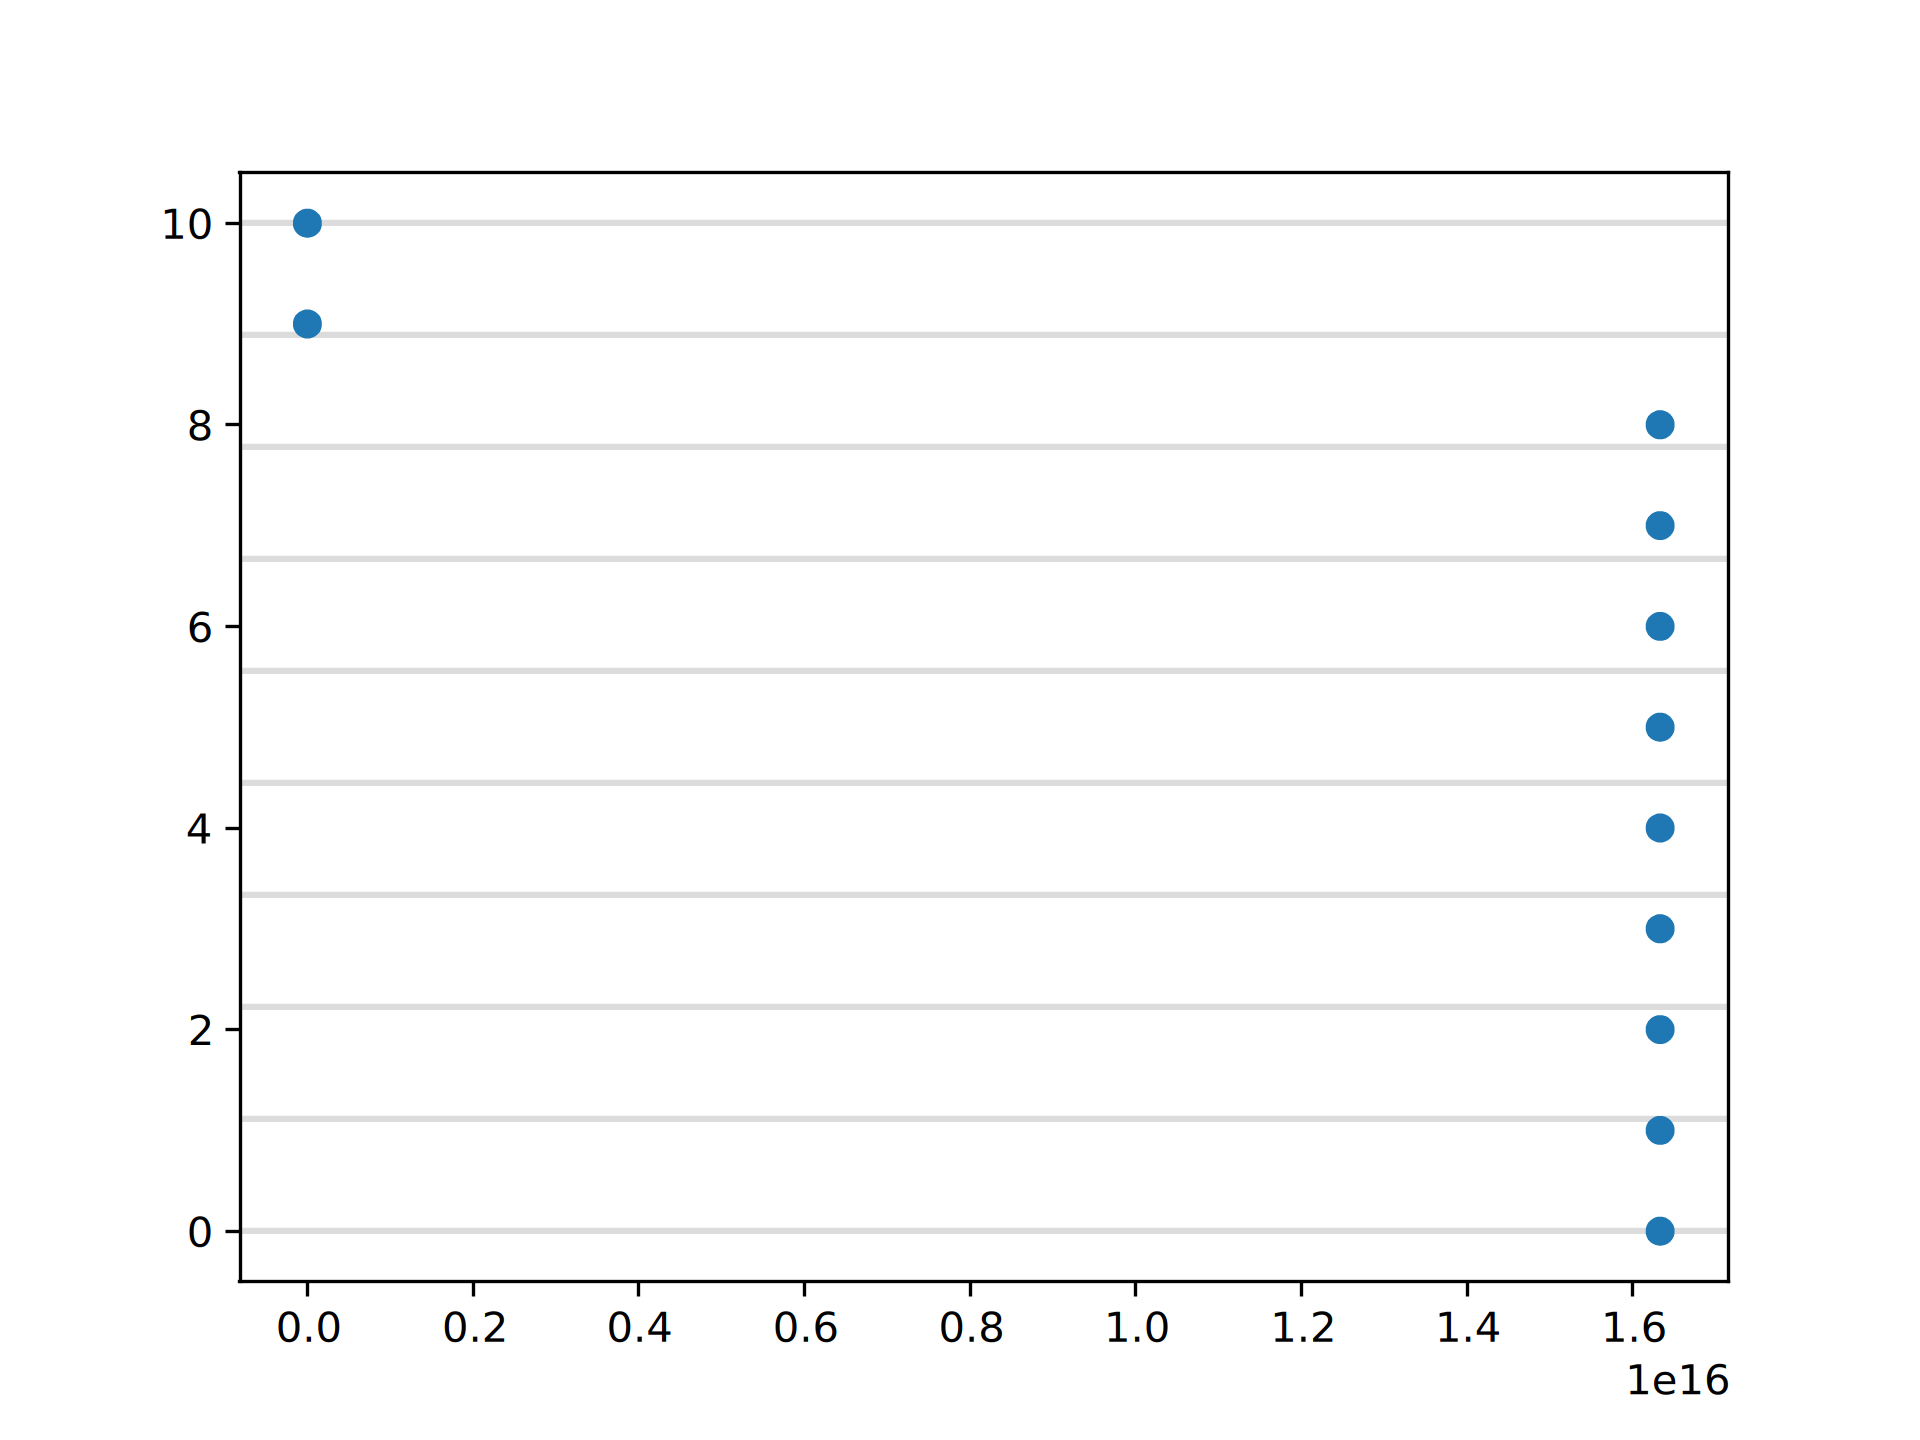
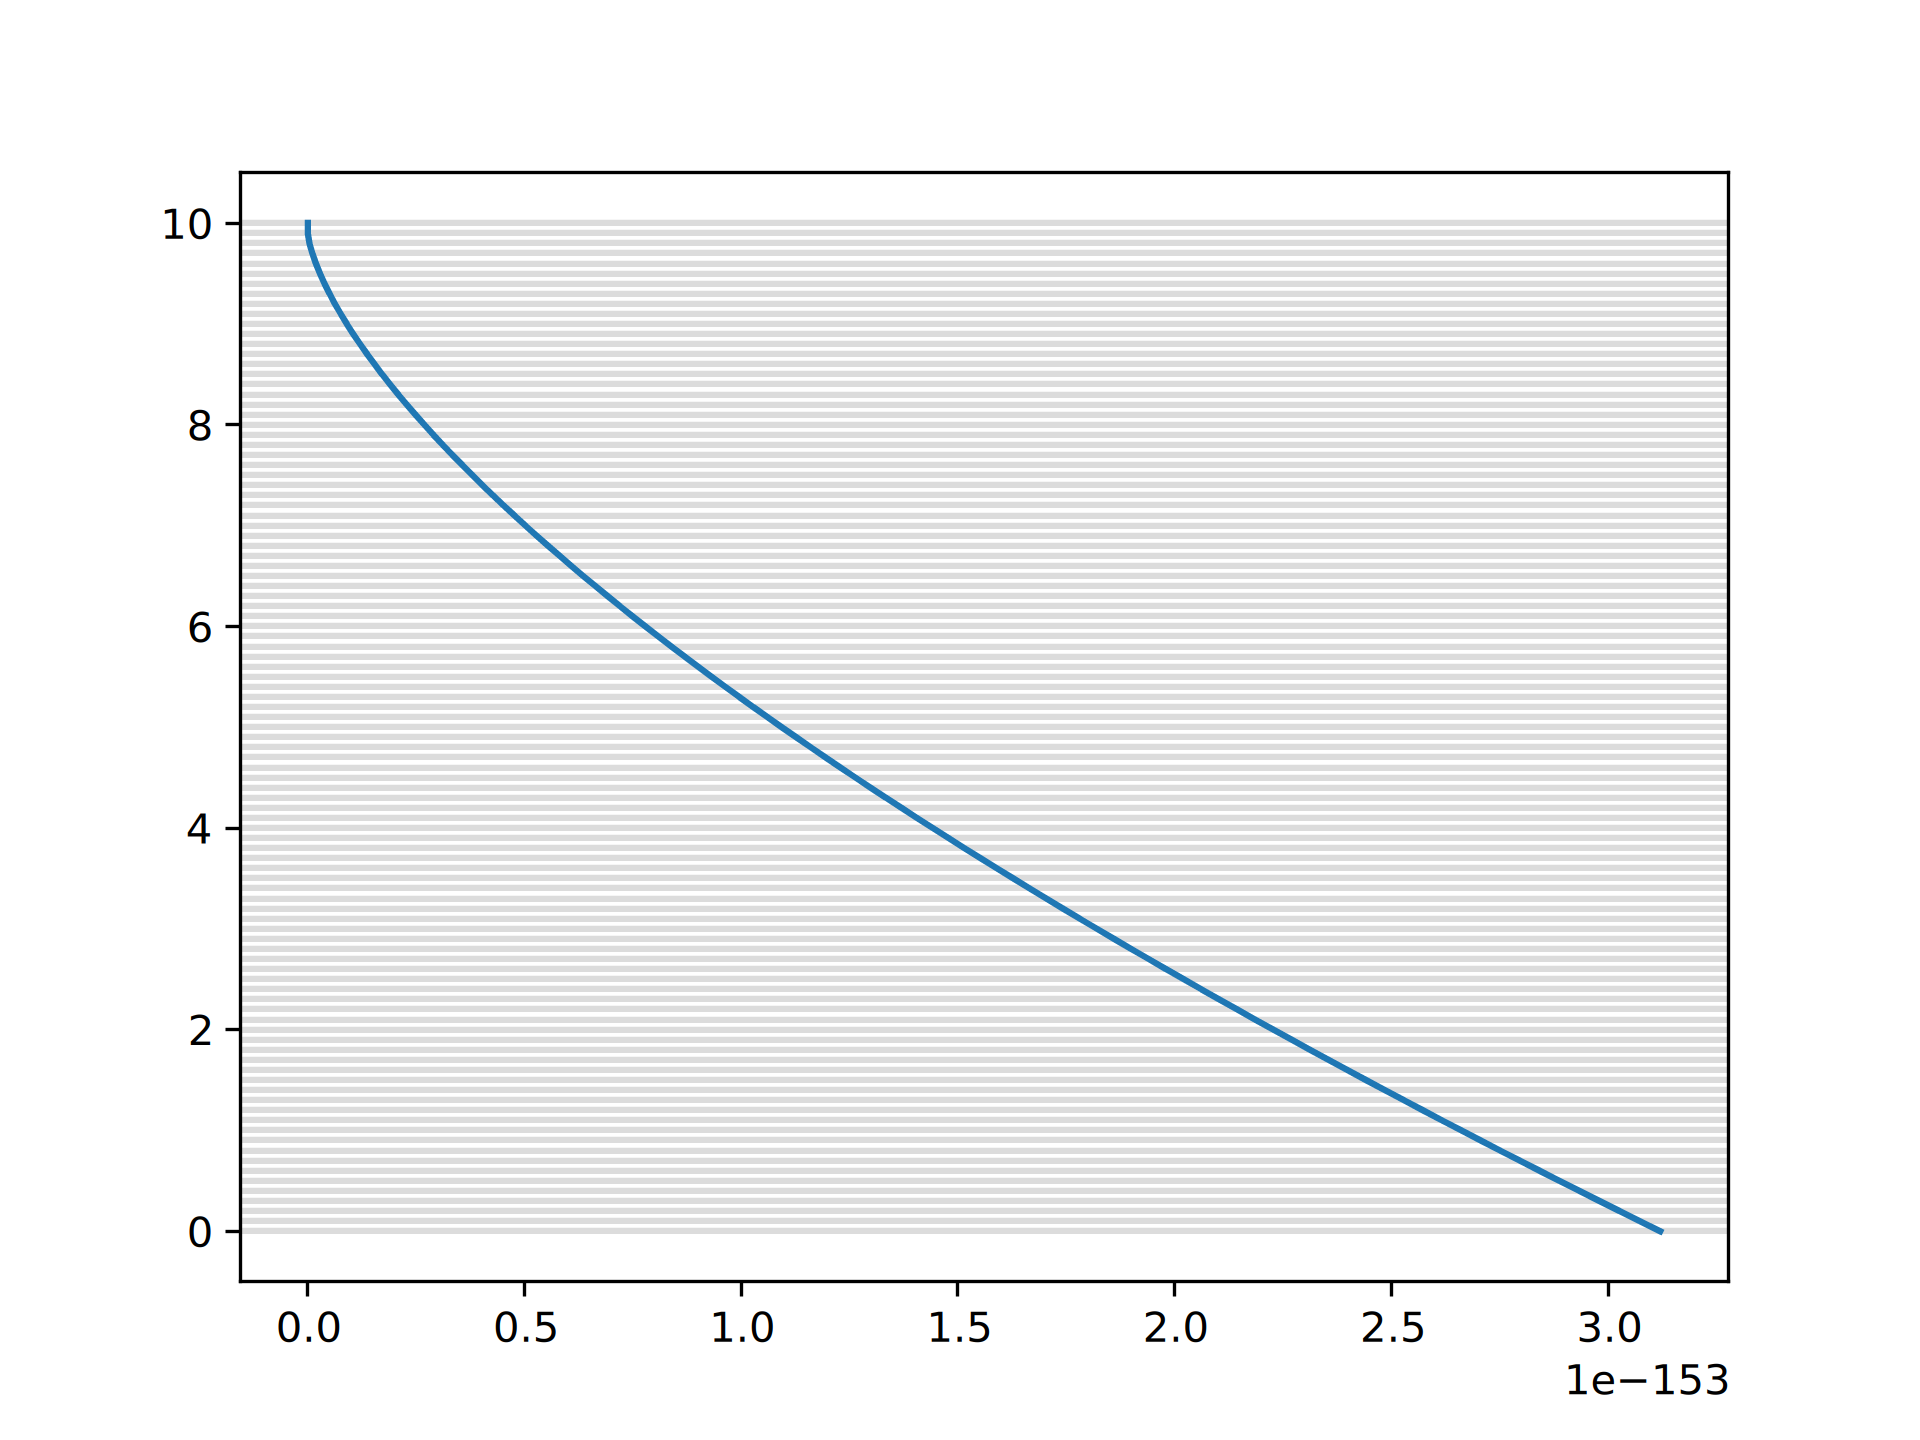
WIP light refraction

diff --git a/main.py b/main.py
@@ -19,6 +19,7 @@ def trace_light(init_angle, height, parts):
     x, y = 0, height
     angle = init_angle
     v, v_old = 0, 0
+    down = True
 
     for iter in range(parts):
         yield x, y
@@ -26,20 +27,21 @@ def trace_light(init_angle, height, parts):
 
         if iter != 0:
             w = v / v_old * math.sin(angle)
-            w = w % 1 if w % 1 != 0 else 1  # domain fix
-            angle = math.asin(w)
+            if w < 1:
+                angle = math.asin(w)
+            else:  # total internal reflection
+                down = not down
 
-        d = (height / parts) / math.cos(angle)
-
-        x += math.sin(angle) * d
-        y -= height / parts
-        travelled += height / parts
+        x += (height / parts) * math.tan(angle)
+        if down:
+            y -= height / parts
+            travelled += height / parts
+        else:
+            y += height / parts
+            travelled -= height / parts
 
         v_old = v
     yield x, y  # final point
-
-
-trace_light(0, 10, 2)
 
 
 if __name__ == "__main__":
@@ -49,24 +51,34 @@ if __name__ == "__main__":
     mpl.use("module://mplcairo.gtk")
 
     HEIGHT = 10
-    WIDTH = 30
-    PARTS = 10
+    # WIDTH = 30
+    PARTS = 100
 
-    path = trace_light(0, HEIGHT, PARTS)
+    # y = list(trace_light(float_info.min, HEIGHT, PARTS))
+    # x = range(len(y))
+    # plt.scatter(x, y)
+    # plt.show()
+
+    path = trace_light(float_info.min, HEIGHT, PARTS)
     x, y = zip(*path)
-    plt.scatter(x, y, zorder=1)
+    plt.plot(x, y, zorder=1)
 
-    for n in np.linspace(0, HEIGHT, PARTS):
+    for n in np.linspace(0, HEIGHT, PARTS + 1):
         plt.axhline(n, color="gainsboro", zorder=0)
 
-    # print(f"Error: {abs(x[-1] - WIDTH)}")
-
-    plt.savefig("result.png", dpi=300)
+    #  print(f"Error: {abs(x[-1] - WIDTH)}")
 
     # min_err, min_angle = math.inf, math.inf
-    # for init_angle in np.linspace(0, math.pi / 2, 100):
-    #     x, y = trace_light(init_angle, HEIGHT, PARTS)
+    # for init_angle in np.linspace(float_info.min, math.pi / 2, 100):
+    #     path = trace_light(init_angle, HEIGHT, PARTS)
+    #     try:
+    #         x, y = zip(*path)
+    #     except:
+    #         print(init_angle)
+    #         continue
     #     err = abs(x[-1] - WIDTH)
     #     if err < min_err:
     #         min_err, min_angle = err, init_angle
     # print(f"Err={min_err}, Angle={min_angle}")
+
+    plt.savefig("result.png", dpi=300)
